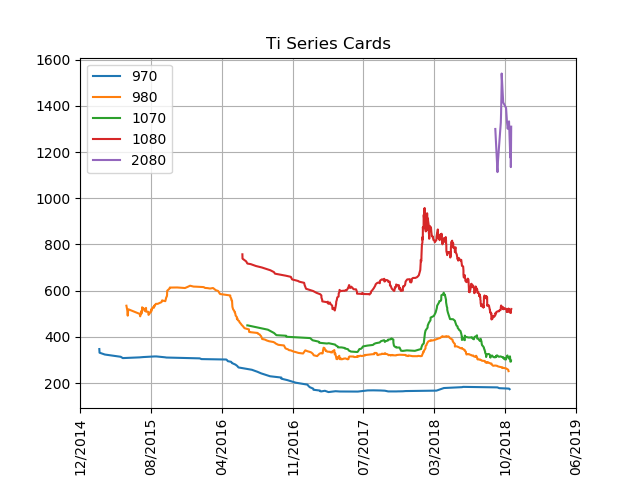
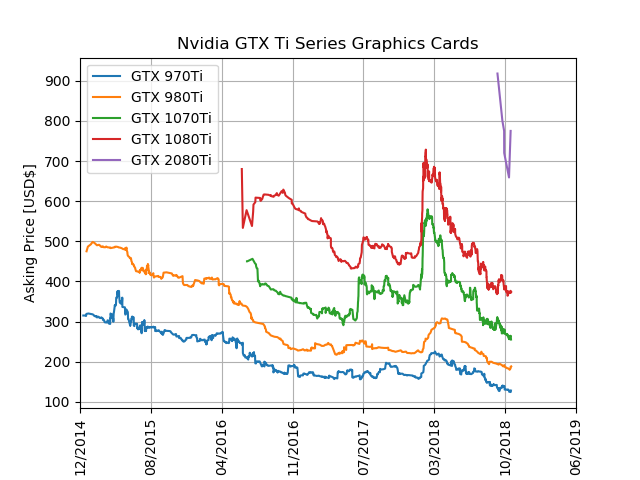
Cleanup plots

diff --git a/hardwareswap_scraper/plot_data.py b/hardwareswap_scraper/plot_data.py
@@ -39,7 +39,7 @@ for fname in fnames:
         if idx == 0:
             continue
         l = line.split(",")
-        if "ti" not in l[1].lower():
+        if "ti" in l[1].lower():
             continue
         year = int(l[4])
         month = int(l[5])
@@ -61,9 +61,11 @@ for fname in fnames:
     min_time = min(min_time,outdata[id][0,0])
     max_time = max(max_time,outdata[id][0,-1])
 
-    label = fname[:fname.find("_")]
+    label = "GTX {}Ti".format(fname[:fname.find("_")])
     plt.plot(outdata[id][0,1:],outdata[id][1,1:],label=label)
 plt.xlim((min_time,max_time))
+plt.xlabel("Date")
+plt.ylabel("Asking Price [USD$]")
 
 plt.legend()
 plt.grid(True)
@@ -76,8 +78,8 @@ plt.xticks(locs,labels,rotation='vertical')
 plt.subplots_adjust(bottom=0.15)
 
 
-plt.title("Ti Series Cards")
-plt.savefig(os.path.join(data_path,"Ti_cards.png"))
+plt.title("Nvidia GTX Ti Series Graphics Cards")
+plt.savefig(os.path.join(data_path,"imgs/Ti_cards.png"))
 plt.show()
 
         
